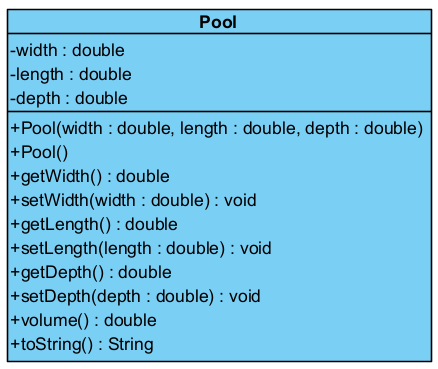
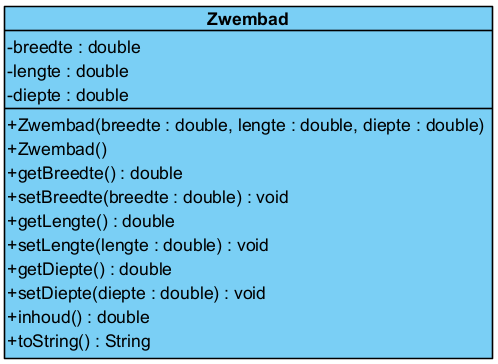
OO-P Practicum 2A patched according to received feedback
WHAT DO YOU MEAN I CANT WRITE CODE IN ENGLISH WHY WHY WHY WHY

Changed region(s): [[0.0, 0.0, 1.0, 0.9973]]

diff --git a/src/Practicum02/MainA.java b/src/Practicum02/MainA.java
@@ -2,19 +2,19 @@ package Practicum02;
 
 public class MainA {
     public static void main(String[] arg) {
-        Pool z1 = new Pool(2.0, 5.5, 1.5);
-        System.out.println("WIDTH: " + z1.getWidth());
-        System.out.println("LENGTH: " + z1.getLength());
-        System.out.println("DEPTH: " + z1.getDepth());
-        System.out.println("CALCULATED VOLUME: " + z1.volume());
+        Zwembad z1 = new Zwembad(2.0, 5.5, 1.5);
+        System.out.println("BREEDTE: " + z1.getBreedte());
+        System.out.println("LENGTE: " + z1.getLengte());
+        System.out.println("DIEPTE: " + z1.getDiepte());
+        System.out.println("BEREKENDE INHOUD: " + z1.inhoud());
         System.out.println();
 
-        Pool z2 = new Pool( );
-        z2.setWidth(2.5);
-        z2.setLength(100.0);
-        z2.setDepth(2.0);
-        double vol = z2.volume();
-        System.out.println("PROPERTIES OF POOL: "+z2.toString());
-        System.out.println("CALCULATED VOLUME: " + z2.volume());
+        Zwembad z2 = new Zwembad( );
+        z2.setBreedte(2.5);
+        z2.setLengte(100.0);
+        z2.setDiepte(2.0);
+        double inh = z2.inhoud();
+        System.out.println("GEGEVENS ZWEMBAD: "+z2.toString());
+        System.out.println("BEREKENDE INHOUD: " + z2.inhoud());
     }
 }

diff --git a/src/Practicum02/Zwembad.java b/src/Practicum02/Zwembad.java
@@ -1,0 +1,48 @@
+package Practicum02;
+
+public class Zwembad {
+    private double breedte;
+    private double lengte;
+    private double diepte;
+
+    public Zwembad(double breedte, double lengte, double depth) {
+        this.breedte = breedte;
+        this.lengte = lengte;
+        this.diepte = depth;
+    }
+
+    public Zwembad() {
+    }
+
+    public double getBreedte() {
+        return breedte;
+    }
+
+    public void setBreedte(double breedte) {
+        this.breedte = breedte;
+    }
+
+    public double getLengte() {
+        return lengte;
+    }
+
+    public void setLengte(double lengte) {
+        this.lengte = lengte;
+    }
+
+    public double getDiepte() {
+        return diepte;
+    }
+
+    public void setDiepte(double diepte) {
+        this.diepte = diepte;
+    }
+
+    public double inhoud() {
+        return breedte * lengte * diepte;
+    }
+
+    public String toString() {
+        return "Dit zwembad is " + breedte + " meter breed, " + lengte + " meter lang, end " + diepte + " meter diep.";
+    }
+}

diff --git a/src/Practicum02/MainB.java b/src/Practicum02/MainB.java
@@ -1,0 +1,4 @@
+package Practicum02;
+
+public class MainB {
+}
